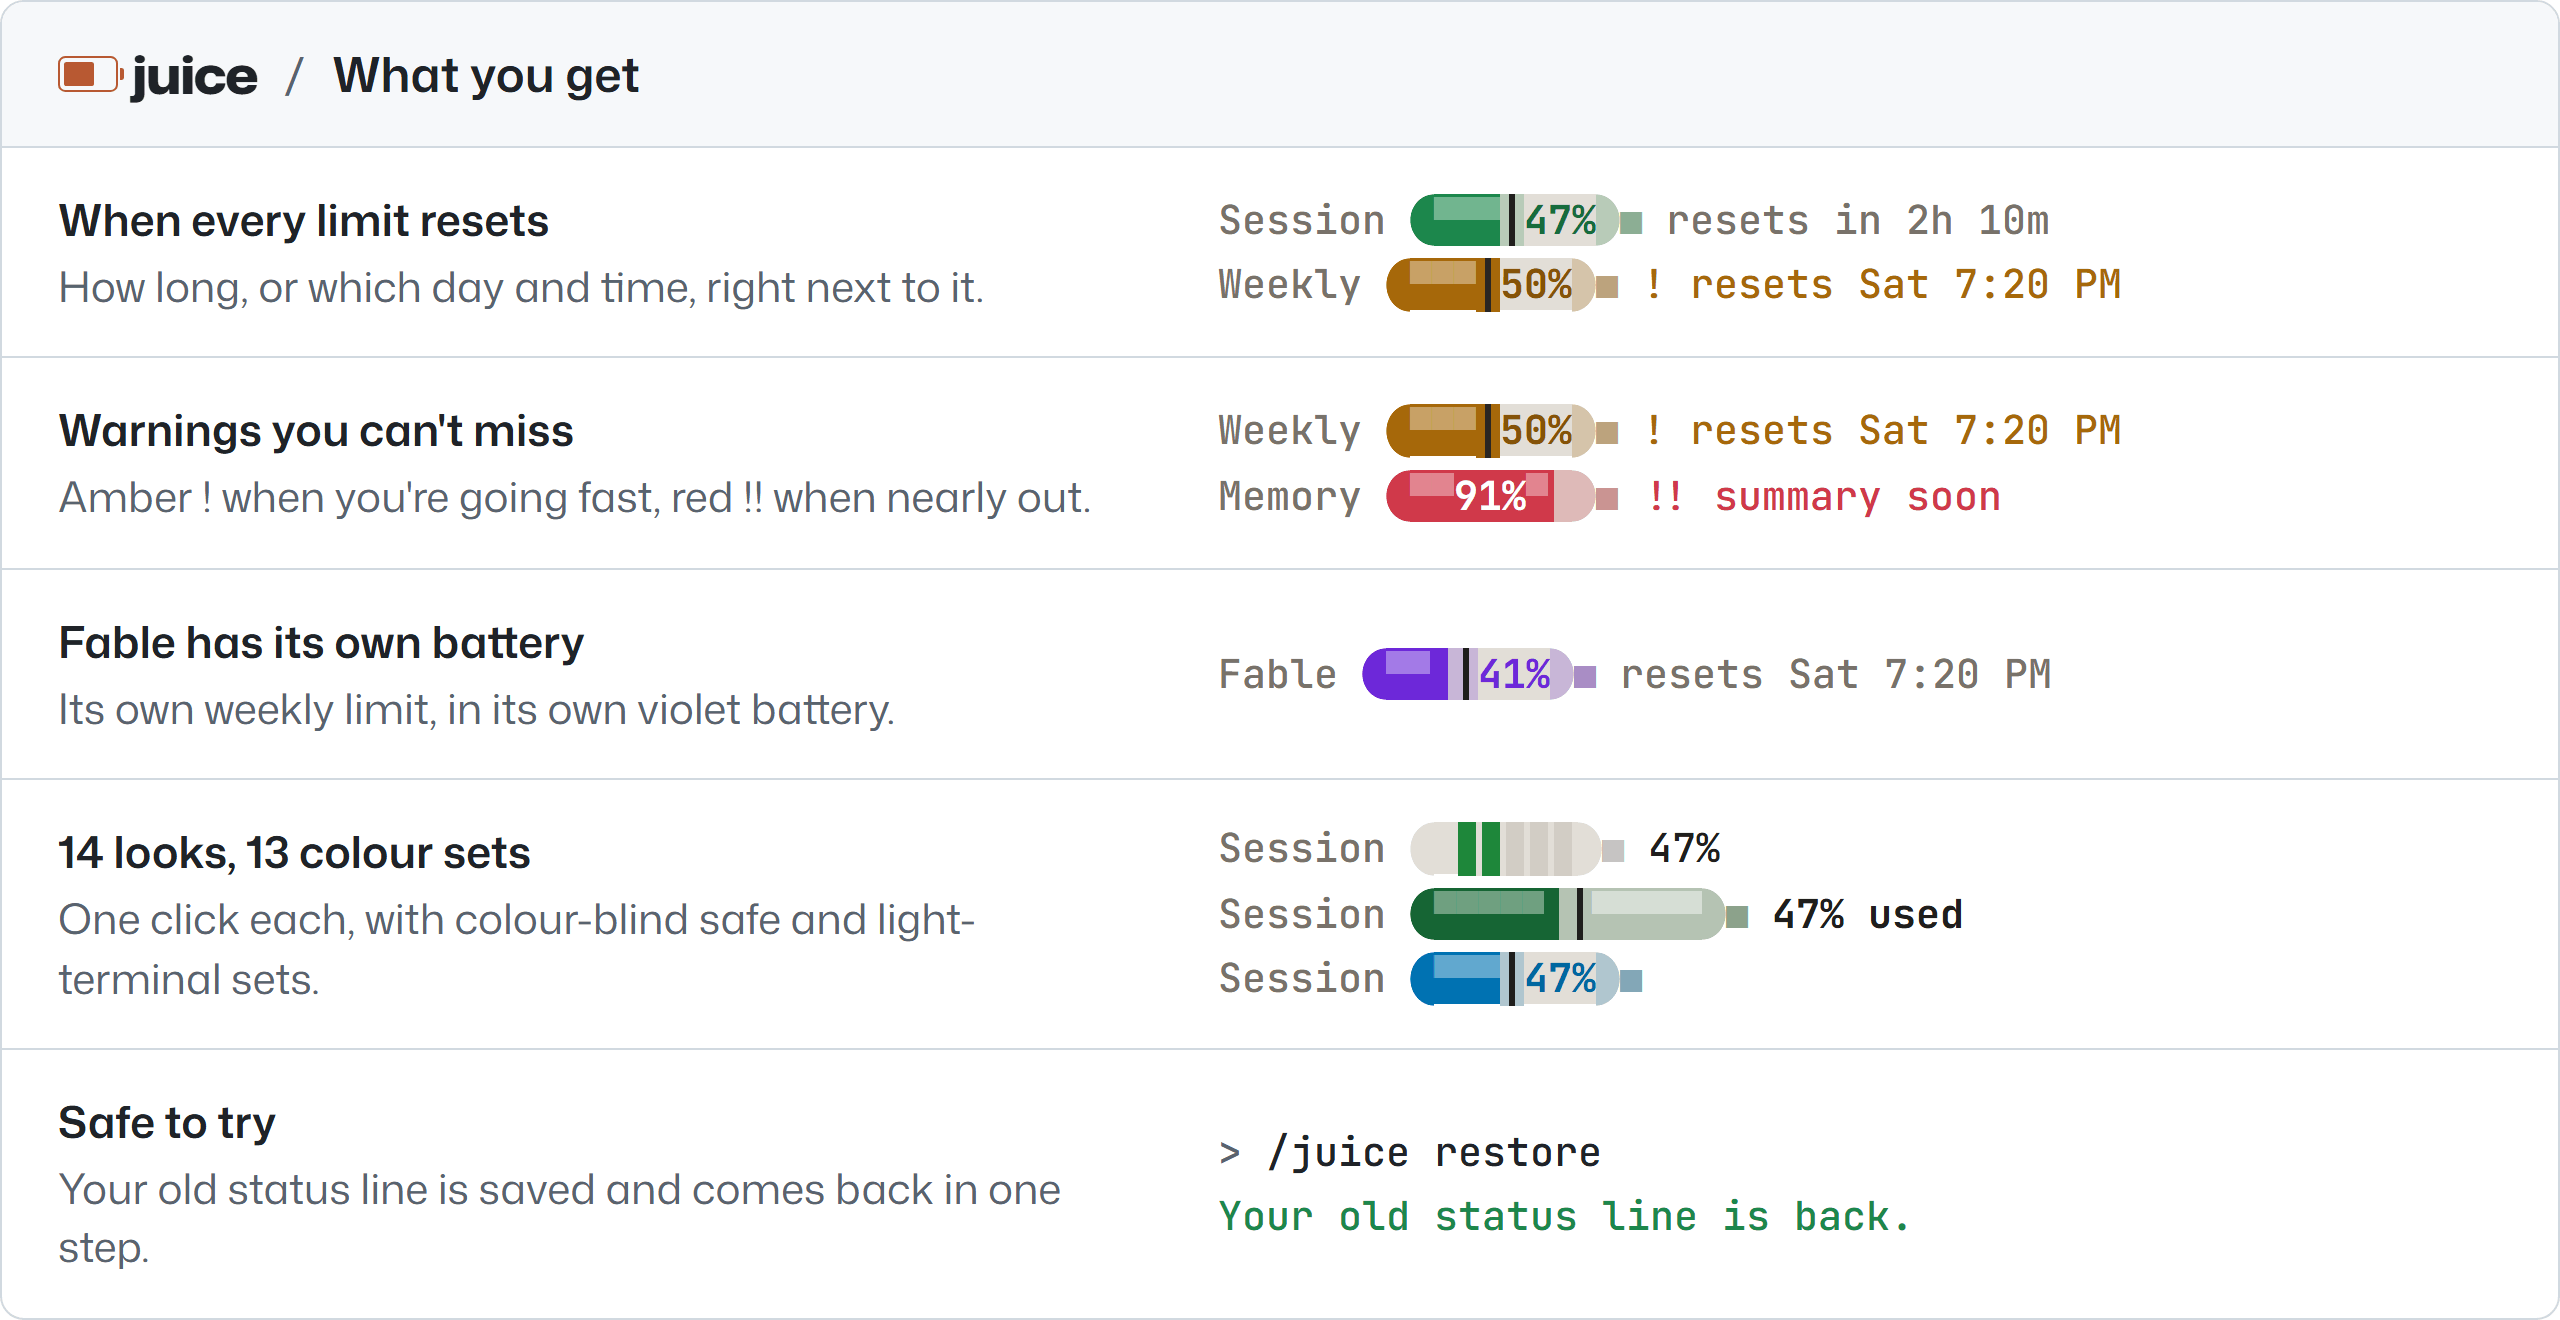
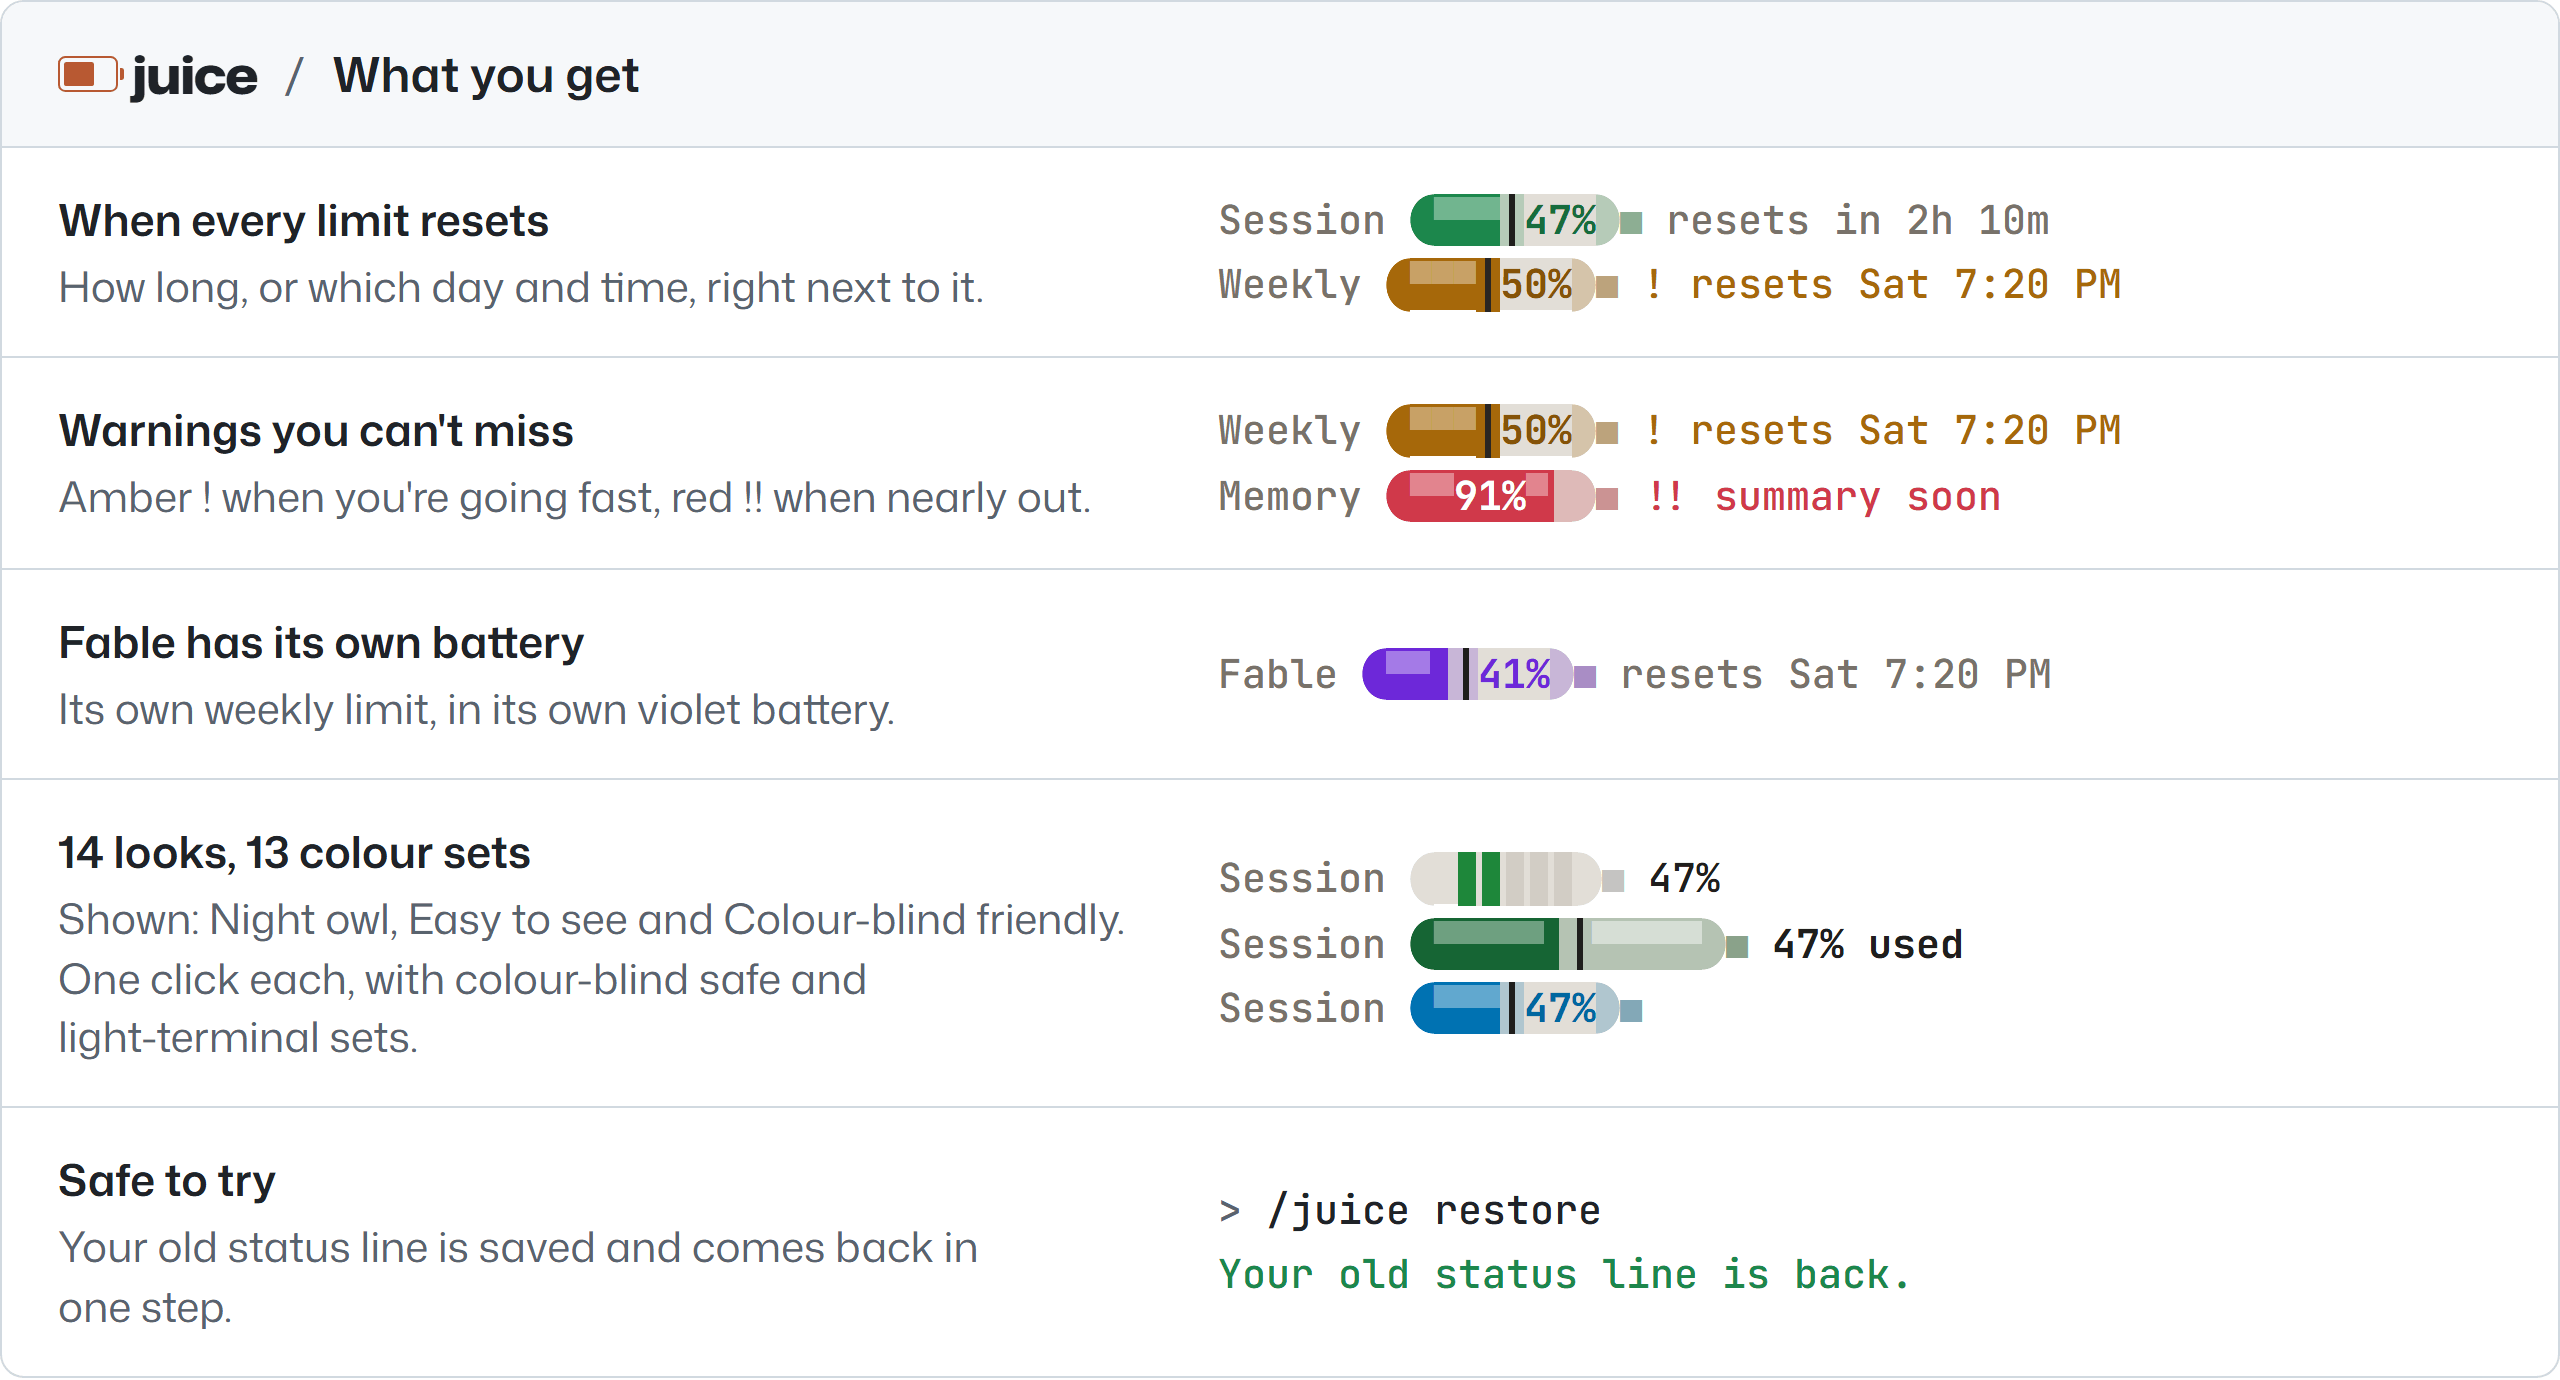
docs: picture fixes from the final review
The GIF now scrolls to Spotlight before clicking it, and every click is
refused if it would miss its target. The picture check also catches text
cut off inside a fixed-height box and pictures drawn without the fonts.
Hyphenated words stay whole, hero rows share the height evenly, and the
alt texts match what the pictures show.

diff --git a/README.md b/README.md
@@ -14,7 +14,7 @@ Free, open source and unofficial: juice is not made by Anthropic.
 
 <picture>
   <source media="(prefers-color-scheme: dark)" srcset="docs/images/hero-dark.png">
-  <img src="docs/images/hero-light.png" alt="juice: your Claude Code limits as batteries, right under the prompt. The same numbers drawn in five of its looks, Juice, Spotlight, Retro phone, Capsule and Road trip: Memory 64%, Session 47%, and Weekly 50% in amber with ! because it is going a bit fast, with its reset time, Sat 7:20 PM.">
+  <img src="docs/images/hero-light.png" alt="juice: your Claude Code limits as batteries, right under the prompt. The same numbers drawn in five of its looks, Juice, Spotlight, Retro phone, Capsule and Road trip: Memory 64%, Session 47%, and Weekly 50% in amber with ! because it is going a bit fast, with its reset time, Sat 7:20 PM. Road trip shows the same as what is left: 36%, 53% and 50%.">
 </picture>
 
 ## Install
@@ -80,7 +80,7 @@ If you use the VS Code chat panel or the desktop app, open a terminal and type `
 
 <picture>
   <source media="(prefers-color-scheme: dark)" srcset="docs/images/features-dark.png">
-  <img src="docs/images/features-light.png" alt="What you get, in five rows: when every limit resets, shown right next to it; warnings you can't miss, amber ! when you are going fast and red !! when nearly out; Fable in its own violet battery; 14 looks and 13 colour sets, with colour-blind safe and light-terminal sets; and safe to try, because /juice restore brings your old status line back.">
+  <img src="docs/images/features-light.png" alt="What you get, in five rows: when every limit resets, shown right next to it; warnings you can't miss, amber ! when you are going fast and red !! when nearly out; Fable in its own violet battery; 14 looks and 13 colour sets, with colour-blind safe and light-terminal sets, and Session drawn in three of the looks, Night owl, Easy to see and Colour-blind friendly; and safe to try, because /juice restore brings your old status line back.">
 </picture>
 
 ## What the batteries mean
@@ -136,7 +136,7 @@ A look sets the layout, the colours, what shows and in what order, the cost, the
 
 <picture>
   <source media="(prefers-color-scheme: dark)" srcset="docs/images/looks-dark.png">
-  <img src="docs/images/looks-light.png" alt="All 14 ready-made looks, numbered as /juice look takes them, each showing the same Session 47% and Weekly 50%: 1 Juice, 2 Just the basics, 3 Spotlight, 4 Everything, 5 Retro phone, 6 Quiet, 7 Night owl, 8 Easy to see, 9 Colour-blind friendly, 10 Works everywhere, 11 Cost watcher, 12 Fable first, 13 Capsule and 14 Road trip.">
+  <img src="docs/images/looks-light.png" alt="All 14 ready-made looks, numbered as /juice look takes them, each showing the same Session 47% and Weekly 50% used (Road trip shows what is left: 53% and 50%): 1 Juice, 2 Just the basics, 3 Spotlight, 4 Everything, 5 Retro phone, 6 Quiet, 7 Night owl, 8 Easy to see, 9 Colour-blind friendly, 10 Works everywhere, 11 Cost watcher, 12 Fable first, 13 Capsule and 14 Road trip.">
 </picture>
 
 <details>
@@ -182,7 +182,7 @@ There are 13 colour sets to choose from: Claude, Frost, Calm, Colour-blind safe,
 
 <picture>
   <source media="(prefers-color-scheme: dark)" srcset="docs/images/colour-sets-dark.png">
-  <img src="docs/images/colour-sets-light.png" alt="All 13 colour sets, each with a battery that has plenty left, one going fast with ! and one nearly out with !!: Claude, Frost, Calm, Colour-blind safe, High contrast, Ocean, Midnight, Vampire, Candy, Forest, Sunset, Solar and Rose.">
+  <img src="docs/images/colour-sets-light.png" alt="All 13 colour sets, each with three batteries under the columns Plenty left, Going fast ! and Nearly out !!: Claude, Frost, Calm, Colour-blind safe, High contrast, Ocean, Midnight, Vampire, Candy, Forest, Sunset, Solar and Rose.">
 </picture>
 
 ## Change how it looks

diff --git a/docs/release/checklist.md b/docs/release/checklist.md
@@ -25,7 +25,7 @@ once and under whatever version number `main` says. So:
 - [ ] `node scripts/check-customizer.js` passes every browser check (needs Playwright: `npm i -g playwright`; GitHub runs it too, as `customizer`).
 - [ ] `node scripts/bench.js` prints OK: juice adds at most 75 ms to Node starting.
 - [ ] The pinned Playwright in `.github/workflows/test.yml` (`npm i -g playwright@...`) is bumped when it ages (dependabot can't see it): bump it, and check the customizer job is still green.
-- [ ] If a look or layout changed since the last release, rebuild the pictures in `docs/images` (`node scripts/pictures/readme.mjs`, plus `hero-features.mjs` and `customizer.mjs` there for the hero, features, button and customizer; they need Playwright and ffmpeg) so the README shows what juice draws now. If the hero changed, upload `docs/images/hero.png` as the repo's social preview too (Settings, General).
+- [ ] If a look, layout, colour set, the drawing in `src/render` or the customizer page in `web/` changed since the last release, rebuild the pictures in `docs/images` (`node scripts/pictures/readme.mjs`, plus `hero-features.mjs` and `customizer.mjs` there for the hero, features, button and customizer; they need Playwright, ffmpeg and the network, for Google Fonts) so the README shows what juice draws now. If the hero changed, upload `docs/images/hero.png` as the repo's social preview too (Settings, General).
 - [ ] `version` is raised in both `.claude-plugin/plugin.json` and `package.json` (tests fail if they differ; Claude Code uses plugin.json's version to find updates).
 - [ ] `CHANGELOG.md` has a `## X.Y.Z` section for the new version (tests fail if it is missing), in plain words for users, with `[Changes since <previous>](https://github.com/zdraveski/claude-juice/compare/v<previous>...v<version>)` under its heading (every version from 1.0.1 on has one; earlier ones have no tags).
 - [ ] After merging: tag `v<version>` and publish a GitHub release with that section as its notes (`gh release create v<version> --verify-tag --title <version> --notes-file -`; every release is titled with its bare version).
